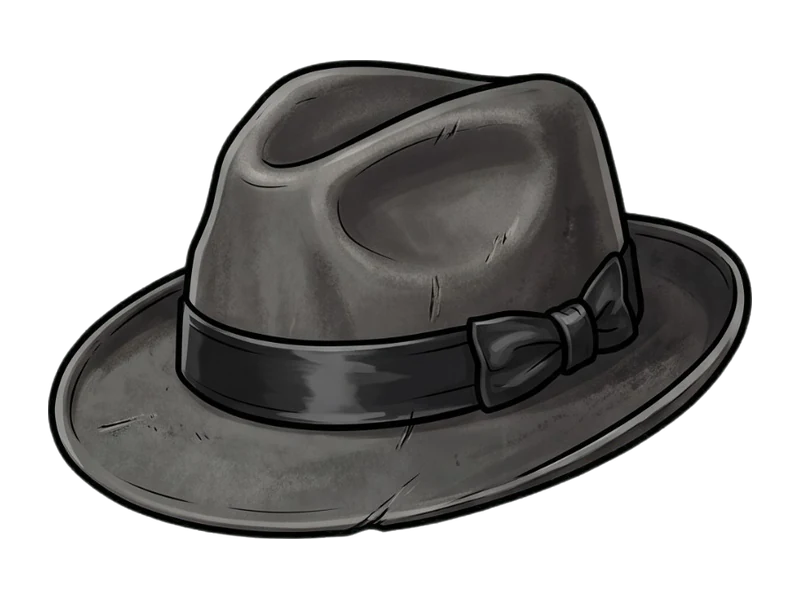
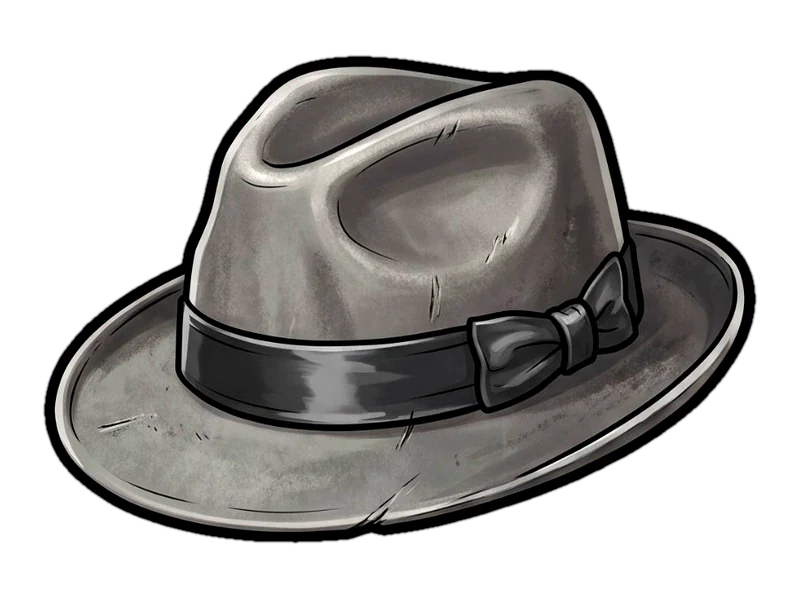
fix: itens de equipamento mais claros (+50%) e contorno preto liso refeito por codigo (R-ARTE-9)

diff --git a/tools/itens_recorte.py b/tools/itens_recorte.py
@@ -12,6 +12,29 @@ SLOT = sys.argv[1] if len(sys.argv) > 1 else "chapeu"
 ARQ = {"chapeu": "docs/arte/itens/chapeus_original.jpg", "peitoral": "docs/arte/itens/peitorais_original.jpg"}[SLOT]
 W4, H4 = 800, 600
 FIT = 0.88          # o item ocupa no máximo 88% da largura e da altura da tela 4:3
+# Acabamento (R-ARTE-9): a arte da IA veio escura (o miolo quase igual ao contorno) e com o contorno meio craquelado.
+# Clareia o miolo (o preto continua preto) e refaz o contorno por código: um anel preto liso e uniforme.
+BRILHO, CONTRASTE, SATURA = 1.5, 1.08, 1.15
+R_FORA, R_DENTRO = 4, 5        # espessura do anel preto, em px da tela 800 x 600: para fora e para dentro da silhueta
+
+
+def acabamento(img):
+    a = np.array(img).astype(float)
+    m = ndi.gaussian_filter(a[..., 3] / 255, 1.5) > 0.5                       # silhueta lisa, sem serrilhado
+    macio = np.clip((ndi.gaussian_filter(a[..., 3] / 255, 1.0) - 0.5) * 4 + 0.5, 0, 1)
+    rgb = a[..., :3] / 255
+    rgb = np.clip(rgb * BRILHO, 0, 1)
+    rgb = np.clip((rgb - 0.5) * CONTRASTE + 0.5, 0, 1)
+    g = (0.2126 * rgb[..., 0] + 0.7152 * rgb[..., 1] + 0.0722 * rgb[..., 2])[..., None]
+    rgb = np.clip(g + (rgb - g) * SATURA, 0, 1)
+    din, dout = ndi.distance_transform_edt(m), ndi.distance_transform_edt(~m)
+    sd = np.where(m, -din, dout)                                              # distância com sinal: negativa dentro
+    anel = np.clip(R_FORA + 0.5 - sd, 0, 1) * np.clip(sd + R_DENTRO + 0.5, 0, 1)
+    anel = np.clip(ndi.gaussian_filter(anel, 0.9) * 1.25, 0, 1)                # borda sem degraus
+    rgb = rgb * (1 - anel[..., None])
+    alpha = np.maximum(macio * m, anel)
+    out = np.dstack([rgb * 255, alpha * 255]).astype(np.uint8)
+    return Image.fromarray(out, "RGBA")
 
 A = np.array(Image.open(ARQ).convert("RGB")).astype(float)
 H, W, _ = A.shape
@@ -39,6 +62,7 @@ for n, i in enumerate(ordem, start=1):
     im = im.resize((round(im.width * s), round(im.height * s)), Image.LANCZOS)
     tela = Image.new("RGBA", (W4, H4), (0, 0, 0, 0))
     tela.alpha_composite(im, ((W4 - im.width) // 2, (H4 - im.height) // 2))
+    tela = acabamento(tela)
     out = f"public/assets/gear/{SLOT}_{n}.comum.webp"
     tela.save(out, "WEBP", quality=88, method=6)
     print(out, "item", im.size, "escala", round(s, 3))

diff --git a/docs/REGRAS_DO_JOGO.md b/docs/REGRAS_DO_JOGO.md
@@ -180,6 +180,7 @@ Observação: com 7 minutos por ponto, uma missão de 15 energia custa 1h45 de e
 | R-ARTE-6 | **Arte dos equipamentos: chapéus e peitorais (4 de cada)** | Cada variação de nome de um slot ganha a sua imagem, em **4:3, sem fundo, só a moldura comum (borda preta)**: `public/assets/gear/<slot>_<n>.comum.webp`, onde a imagem 1 é o 1º nome do slot, e assim por diante. **Chapéus** (aprovados pelo fundador em 2026-11-14): 1 Fedora de Feltro, 2 Chapéu Panamá, 3 Boina do Porto, 4 Cartola Velha. **Peitorais** (aprovados em 2026-11-14, cada um mostrado de um jeito): 1 Sobretudo Noir (dobrado), 2 Colete de Couro (no cabide), 3 Paletó Risca de Giz (inteiro, de frente), 4 Casaco do Cais (de lado, no gancho). **Regra do fundador: cada item de um slot é mostrado de um jeito diferente** (dobrado, no cabide, de lado, inteiro...), nunca todos na mesma pose; o encaixe em 4:3 é feito no recorte. A imagem aparece na **Mala** (sem fundo, "colada"), no **slot do Equipamento** e na **dica**; slot sem arte continua com o emoji. **Épico e lendário**: só depois (mesmo item, com borda branca e brilho vermelho ou roxo, como nas armas). Método para os outros slots: o fundador gera 4 itens em 2x2 sobre fundo verde, com esquema 4:3, só com a referência de estilo da arma e **sem anexar um item específico** (para os itens saírem variados); `tools/itens_recorte.py` recorta. | **Fundador, 2026-11-14** | `src/web/gearArt.ts`, `src/web/main.ts`, `src/web/style.css` (bloco R-ARTE-6), `public/assets/gear/`, `tools/itens_recorte.py` | `tests/unit/gearArt.test.ts` |
 | R-ARTE-7 | **Item sem fundo em todo lugar; o fantasma do slot é um sprite à parte** | **Nenhum item tem fundo.** No Equipamento o retalho bege atrás do item foi removido: os 8 desenhos-fantasma saíram da folha (`tools/secaoB_fantasmas.py`) e viraram 8 sprites (`public/assets/ficha/b-fantasma-<slot>.webp`) que só aparecem no **slot vazio**; com item, o slot mostra só a moldura e o item. | **Fundador, 2026-11-14** | `src/web/style.css` (bloco R-ARTE-7), `public/assets/ficha/b-fantasma-*.webp`, `public/assets/ficha/b-equipamento.webp` | `tests/unit/fichaNova.test.ts` |
 | R-ARTE-8 | **Ao arrastar, só o item se move** | Tudo o que é desenhado no papel (moldura, slot, fantasma, folha) é **estático**. Ao arrastar um item (da Mala, do Equipamento ou a arma), a imagem que acompanha o mouse é **só o desenho do item**, nunca o quadrado do slot com bordas e papel; no slot de origem o item **some** enquanto dura o arrasto e volta se o arrasto for cancelado. | **Fundador, 2026-11-14** | `src/web/main.ts` (`setItemDragImage`), `src/web/style.css` (bloco R-ARTE-8) | `tests/unit/fichaNova.test.ts` |
+| R-ARTE-9 | **Itens claros, com contorno preto liso** | A arte da IA veio escura (o miolo quase igual ao contorno) e com o contorno meio craquelado. No recorte (`tools/itens_recorte.py`) o miolo fica **+50% mais claro** (contraste +8%, cor +15%; o preto continua preto) e o contorno é **refeito por código**: um anel preto **liso e uniforme** (4 px para fora e 5 para dentro, na tela 800 x 600, sem degraus). Vale para todos os itens de equipamento, hoje chapéus e peitorais, e para os próximos slots. Escolhido pelo fundador em 2026-11-14 (opção "bem mais claro"). | **Fundador, 2026-11-14** | `tools/itens_recorte.py`, `public/assets/gear/*.comum.webp` | `tests/unit/gearArt.test.ts` (arquivos existem) |
 | R-OURO-2 | **Ouro concedido pelo fundador (goldGrant)** | O ouro normal tem teto (nível e missões). Para conceder ouro de teste ou prêmio, o **banco** grava `goldGrant` na linha do jogador (migração SQL colada pelo fundador) e o servidor **soma esse valor ao teto**. Só vale para quem recebeu; o navegador **não consegue** enviar nem aumentar esse campo. Primeira concessão: **+10.000 para o fundador e para "kyaa"** (migração 003, também põe os 8 itens com arte na Mala). | **Fundador, 2026-11-14** | `src/server/rules.ts`, `src/shared/player.ts`, `supabase/migrations/003_concessao_teste_ouro_e_itens.sql` | `tests/unit/server.test.ts` |
 | R-RANK-3 | **Posição no topo** | A posição é a do **Ranking real** (servidor) quando há conta, e entre os **NPCs** no modo sem servidor (em empate o NPC fica acima). Quem tem mais Respeito fica no topo (R-RANKING-1). A posição atualiza a cada 20 s e logo depois de um duelo | **Fundador, 2026-11-12** | `rankPosition.ts`, `main.ts` | `rankPosition.test.ts` |
 | R-ORIGEM-1 | **De onde vem cada moldura: épico nunca na loja, lendário só por evento** | **Comum:** pode ser vendido na loja e vir de missões. **Épico:** **NUNCA é vendido na loja**; só se obtém **matando integrantes dos distritos ou Wanteds** (etapa futura). **Lendário:** obtido **exclusivamente por eventos**. O jogo já trava isso: a loja **não lista** nem **vende** item de moldura épica ou lendária (a compra é recusada com o aviso "Este item só se consegue em distritos, Wanteds ou eventos"). Decisão do fundador, que corrige a demonstração provisória (BAR e Springfield como épico), retirada | **Fundador, 2026-11-12** | `weaponArt.ts` (`SHOP_FRAMES`, `sellableInShop`), `state.ts` (`buyBlockReason`), `main.ts` | `weaponArt.test.ts` ("origem por moldura") |
